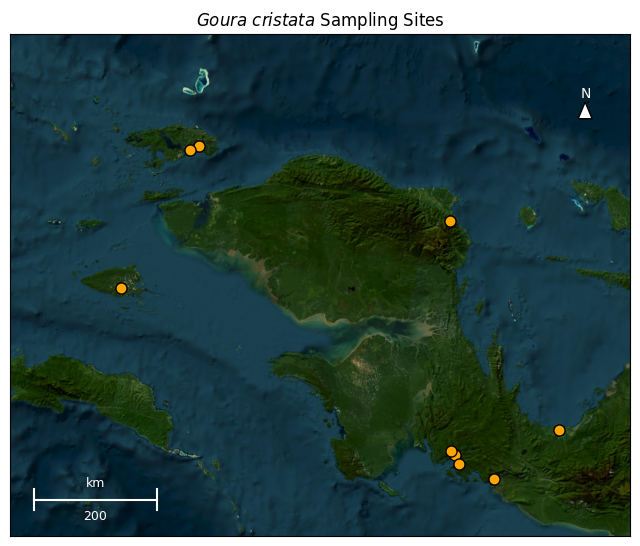
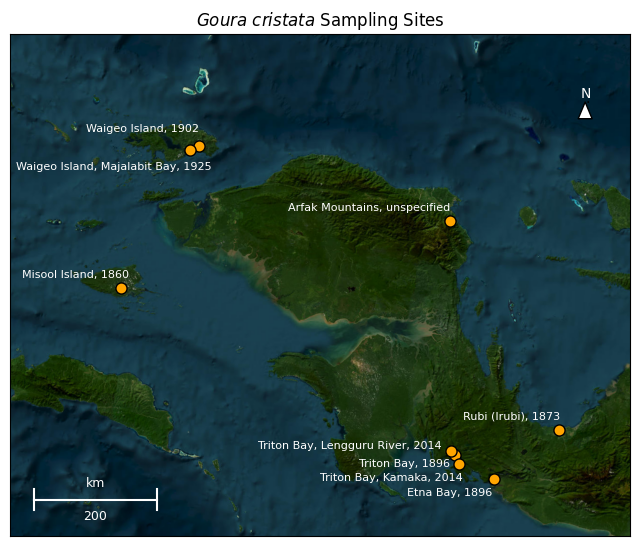
Added place names to map of G. cristata sampling sites

diff --git a/docs/notes/sample_origins.md b/docs/notes/sample_origins.md
@@ -30,6 +30,7 @@ This resulted in the following plot:
 
 ![Specimen Collections Over Years by Location](../../results/figures/specimen_by_year_location.png)
 
+<!--Is the Goura cristata minor genetically a cristata and where is Salawatt?-->
 The four Goura locations were marked on a map of New Guinea and Raja Ampat, shown below, with the jupyter notebook [new_guinea_raja_ampat.ipynb](../../src/analysis/new_guinea_raja_ampat.ipynb):
 
 ![Sampling Locations on & Around New Guinea](../../results/figures/new_guinea_raja_ampat.png)
@@ -42,9 +43,10 @@ In our study, the most recent mitochondrial genome sequences for Goura species i
 
 ### Detailed Sampling Locations of *Goura cristata* in Western New Guinea and Raja Ampat
 
-To more clearly visualize the geographical distribution of *Goura cristata* we plottet the particular sampling locations as shown on the map below of western New Guinea and the Raja Ampat Islands.
+To more clearly visualize the geographical distribution of *Goura cristata* we plottet the particular sampling locations as shown on the map below of western New Guinea and the Raja Ampat Islands made using the notebook [g_cristata_sampling_sites.ipynb](../../src/analysis/g_cristata_sampling_sites.ipynb).
 
-![Map](../../results/figures/g_cristata_sampling_sites.png)
+<!--Add name locations to Birdshead and Raja Ampat map-->
+![Raja Ampat and Birdshead Peninsula, G. cristata Sites](../../results/figures/g_cristata_sampling_sites.png)
 
 ## Historical Context of the First Goura Specimen
 
